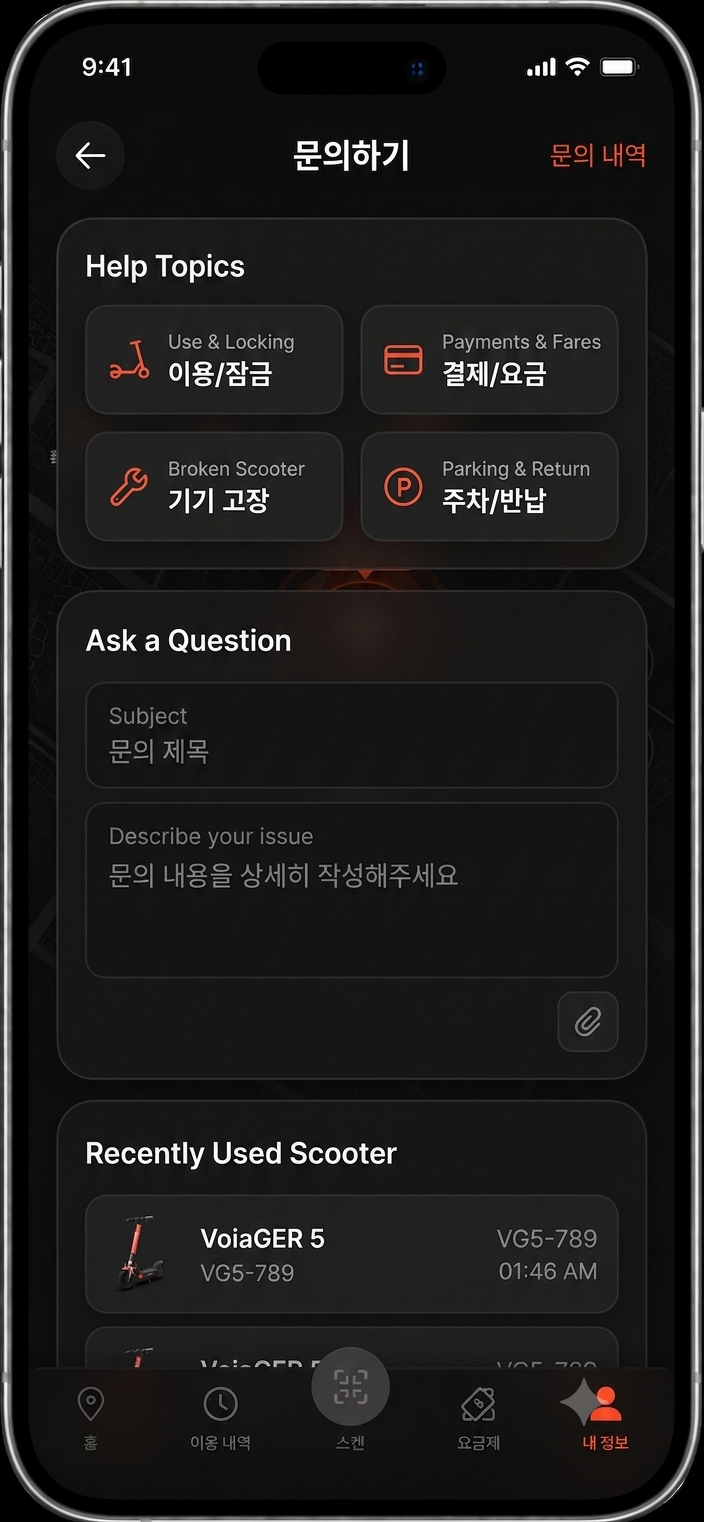
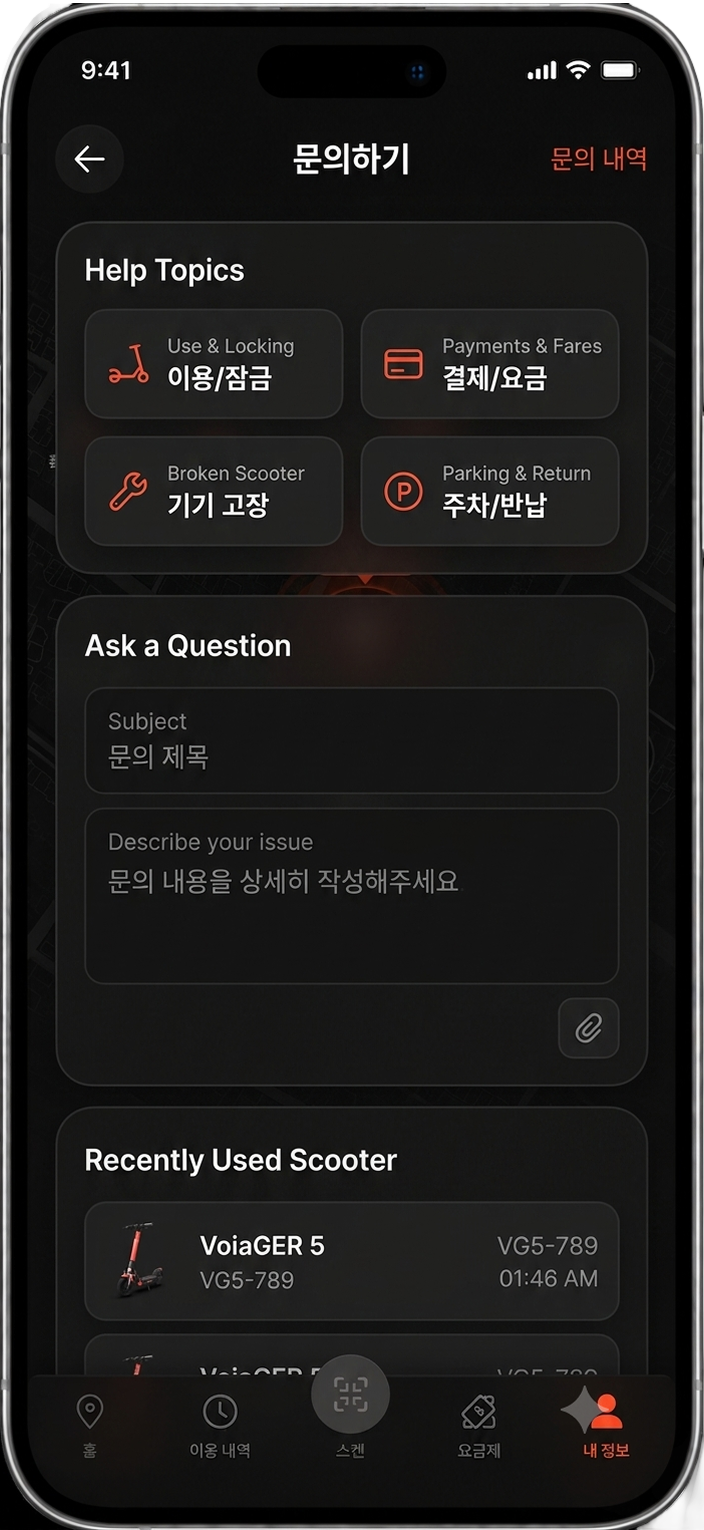
문의하기 섹션 이미지 하단 라디우스 제거 + 사이즈 절반으로 축소
상단 2/3만 노출되는 크롭인데 하단까지 둥근 모서리가 남아 어색했음.
border-radius를 상단만(top-left/top-right) 적용하고 하단은 0으로 바꿔
자연스럽게 잘려나간 모양으로 수정. width도 50%로 줄여 이미지 크기를 절반으로.

diff --git a/css/site.css b/css/site.css
@@ -214,9 +214,9 @@ html{overflow-x:hidden;scroll-behavior:smooth;scroll-padding-top:88px;}
   background:var(--color-canvas);}
 .statement__bg{position:absolute;inset:0;top:auto;height:18%;width:100%;object-fit:cover;opacity:.6;}
 .statement__grid{position:relative;z-index:1;display:grid;grid-template-columns:repeat(12,1fr);gap:var(--grid-gutter-lg);align-items:center;}
-.statement__media{grid-column:1/7;min-width:0;overflow:hidden;border-radius:var(--radius-lg);
-  aspect-ratio:704/1015;}
-.statement__phone{display:block;width:100%;border-radius:var(--radius-lg);}
+.statement__media{grid-column:1/7;min-width:0;width:50%;overflow:hidden;
+  border-radius:var(--radius-lg) var(--radius-lg) 0 0;aspect-ratio:704/1015;}
+.statement__phone{display:block;width:100%;border-radius:var(--radius-lg) var(--radius-lg) 0 0;}
 .statement__copy{grid-column:7/13;min-width:0;text-align:right;}
 .statement__line{font-weight:var(--fw-base);line-height:1.15;letter-spacing:var(--display-tracking);}
 .statement__btn{display:inline-flex;align-items:center;justify-content:center;margin-top:var(--space-7);
